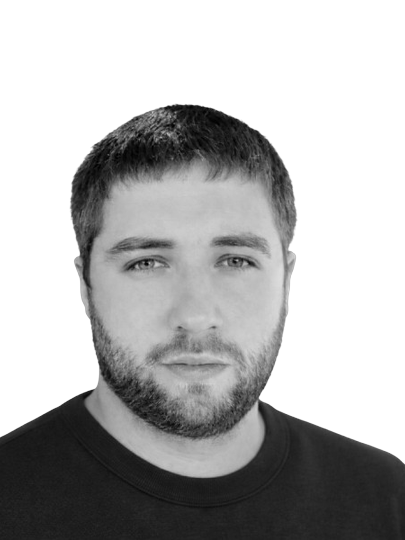
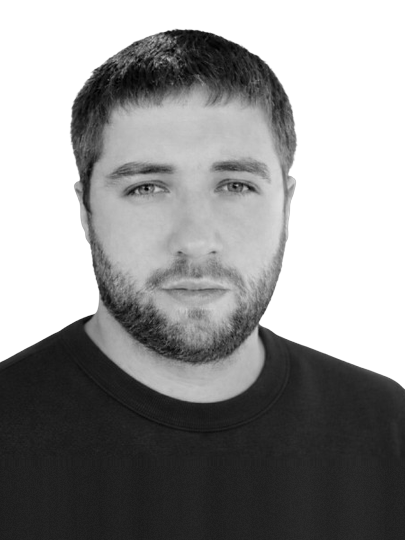
Drop the hero stat cards, align section buttons with the title, Shevelev as Lead Developer
- Hero ends with the CTAs; the case figures live in the results section with their context
- Clients section carries the track record as one line: 100+ projects since 2009, 20+ countries
- Section header button always sits level with the title; the lead runs below it
- Dmitriy Shevelev: Lead Developer (team page and blog author line, all locales)
- Bohdan Voitovych photo reframed: head at the same height as the rest of the team

diff --git a/src/app/(frontend)/trident.css b/src/app/(frontend)/trident.css
@@ -113,6 +113,10 @@ p { overflow-wrap: break-word; }
 .section-head { display: flex; justify-content: space-between; align-items: flex-end; gap: 32px; flex-wrap: wrap; margin-bottom: var(--head-gap); }
 .section-head > div { display: flex; flex-direction: column; gap: 16px; max-width: 760px; min-width: 0; }
 .section-head .btn { flex: none; }
+.section-head--stack { flex-direction: column; align-items: stretch; flex-wrap: nowrap; gap: 16px; }
+.section-head--stack > .section-head-row { display: flex; justify-content: space-between; align-items: flex-end; gap: 32px; flex-wrap: wrap; max-width: none; flex-direction: row; }
+.section-head-row > div { display: flex; flex-direction: column; gap: 16px; max-width: 760px; min-width: 0; }
+.section-head--stack > .lead { max-width: 760px; }
 
 /* ---- Buttons ------------------------------------------------------------- */
 .btn { position: relative; display: inline-flex; align-items: center; justify-content: center; overflow: hidden; border: 0; cursor: pointer; font: 600 15px/1.2 var(--font-sans); padding: 14px 20px; min-height: 44px; box-sizing: border-box; border-radius: var(--radius); white-space: nowrap; text-align: center; }
@@ -351,8 +355,6 @@ body.menu-open { overflow: hidden; }
 .log-row.is-new::before { content: ""; position: absolute; inset: 0; background: rgba(39,114,224,.25); animation: logFlash .9s var(--ease) both; pointer-events: none; }
 @keyframes logIn { from { opacity: 0; transform: translateY(-10px); } to { opacity: 1; transform: none; } }
 @keyframes logFlash { from { opacity: 1; } to { opacity: 0; } }
-.hero-stats { position: relative; padding-bottom: clamp(48px,5vw,80px); }
-.hero-stats-h { margin: 0 0 14px; font: 500 var(--fs-label)/1.2 var(--font-mono); color: var(--ink-3); }
 
 /* ---- Stat cards + mini visuals ------------------------------------------ */
 .stat-card { padding: 20px; display: flex; flex-direction: column; gap: 12px; background: rgba(255,255,255,.9); }
@@ -362,8 +364,6 @@ body.menu-open { overflow: hidden; }
 .stat-d { font-size: 13px; line-height: 1.4; color: var(--ink-2); }
 .stat-card--lg .stat-d { font-size: 14px; line-height: 1.45; color: var(--ink); }
 .stat-src { font: 400 11px/1.4 var(--font-mono); color: var(--ink-3); }
-.stat-card--link { color: inherit; text-decoration: none; }
-.stat-card--link .stat-d::after { content: " →"; color: var(--blue); }
 .mini-bars { display: flex; flex-direction: column; gap: 4px; }
 .track { height: 6px; background: var(--alt); border-radius: 2px; overflow: hidden; }
 .track--10 { height: 10px; border-radius: 0; }
@@ -818,6 +818,8 @@ a.uc-card:hover::after, a.uc-card:focus-visible::after { transform: scaleX(1); }
   .stack-band p { font-size: 17px; min-width: 0; }
   .btn { white-space: normal; }
   .section-head { gap: 20px; }
+  .section-head--stack { gap: 16px; }
+  .section-head-row { gap: 20px; }
   .contact-list li { grid-template-columns: minmax(0,1fr); gap: 4px; }
   .fbottom { flex-direction: column; align-items: flex-start; }
   .stat-card { padding: 16px; }

diff --git a/src/data/blog/batch-03.ts b/src/data/blog/batch-03.ts
@@ -50,7 +50,7 @@ Players can control lighting, AC, music, game video recording, live streaming, a
 
 Proven experience in IoT, end-to-end development, and scalable architecture made Trident Software the right choice for this project. The platform is built to grow from a pilot in one city to a regional sports infrastructure network.`,
     author: "Dmitriy Shevelev",
-    authorRole: "Team Lead, Trident Software",
+    authorRole: "Lead Developer, Trident Software",
     publishedAt: "2024-10-31",
     readingTime: 6,
     tags: [
@@ -111,7 +111,7 @@ Les joueurs commandent l'éclairage, la climatisation, la musique, l'enregistrem
 ## Pourquoi l'IoT dans le sport ?
 
 Une expérience éprouvée de l'IoT, un développement de bout en bout et une architecture évolutive ont fait de Trident Software le bon choix pour ce projet. La plateforme est conçue pour passer d'un pilote dans une seule ville à un réseau régional d'infrastructures sportives.`,
-        authorRole: "Chef d'équipe, Trident Software",
+        authorRole: "Développeur principal, Trident Software",
         meta: {
           title: "ArenaWave : Logiciel de gestion sportive IoT — Trident Software",
           description: "Comment ArenaWave transforme les terrains de sport en espaces intelligents avec IoT et gestion automatisée.",
@@ -163,7 +163,7 @@ Spieler steuern Beleuchtung, Klimaanlage, Musik, Videoaufzeichnung des Spiels, L
 ## Warum IoT im Sport?
 
 Nachgewiesene Erfahrung mit IoT, Entwicklung aus einer Hand und eine skalierbare Architektur haben Trident Software zur richtigen Wahl für dieses Projekt gemacht. Die Plattform ist darauf ausgelegt, von einem Pilotprojekt in einer Stadt zu einem regionalen Netz von Sportinfrastruktur zu wachsen.`,
-        authorRole: "Teamleiter, Trident Software",
+        authorRole: "Leitender Entwickler, Trident Software",
         meta: {
           title: "ArenaWave: Sportmanagement-Software — Trident Software",
           description: "Wie ArenaWave Sportanlagen mit IoT und automatisiertem Betrieb in digitale Spaces verwandelt.",
@@ -215,7 +215,7 @@ I giocatori gestiscono luci, aria condizionata, musica, registrazione video dell
 ## Perché l'IoT nello sport?
 
 Esperienza comprovata nell'IoT, sviluppo end-to-end e un'architettura scalabile hanno reso Trident Software la scelta giusta per questo progetto. La piattaforma è pensata per crescere da un progetto pilota in una sola città a una rete regionale di infrastrutture sportive.`,
-        authorRole: "Team Leader, Trident Software",
+        authorRole: "Sviluppatore principale, Trident Software",
         meta: {
           title: "ArenaWave: Software di Gestione Sportiva IoT — Trident Software",
           description: "Come ArenaWave trasforma i campi sportivi in spazi intelligenti con IoT e gestione automatizzata.",

diff --git a/src/data/blog/batch-04.ts b/src/data/blog/batch-04.ts
@@ -308,7 +308,7 @@ From basic access to full data visibility — tailored per company, dealer, or c
 
 This panel is available as a standalone product or as an integration layer for existing B2B platforms.`,
     author: "Dmitriy Shevelev",
-    authorRole: "Team Lead, Trident Software",
+    authorRole: "Lead Developer, Trident Software",
     publishedAt: "2024-05-13",
     readingTime: 5,
     tags: [
@@ -373,7 +373,7 @@ De l'accès de base à la visibilité complète des données, adaptés à chaque
 | Contrôle d'accès difficile | Droits granulaires selon le rôle et le niveau |
 
 Ce panneau est disponible comme produit autonome ou comme couche d'intégration pour des plateformes B2B existantes.`,
-        authorRole: "Chef d'équipe, Trident Software",
+        authorRole: "Développeur principal, Trident Software",
         meta: {
           title: "Nouveau panneau d'administration B2B — Trident Software",
           description: "Notre nouveau panneau B2B offre contrôle hiérarchique et surveillance en temps réel pour les réseaux de distribution.",
@@ -430,7 +430,7 @@ Vom Basiszugang bis zur vollen Datensicht, zugeschnitten auf jedes Firmen-, Hän
 | Schwierige Zugriffskontrolle | Fein abgestufte Berechtigungen nach Rolle und Stufe |
 
 Das Panel gibt es als eigenständiges Produkt oder als Integrationsschicht für bestehende B2B-Plattformen.`,
-        authorRole: "Teamleiter, Trident Software",
+        authorRole: "Leitender Entwickler, Trident Software",
         meta: {
           title: "Unser neues B2B-Admin-Panel — Trident Software",
           description: "Das neue B2B-Verwaltungspanel bietet hierarchische Kontrolle und Echtzeit-Überwachung für komplexe Kundennetzwerke.",
@@ -487,7 +487,7 @@ Dall'accesso base alla visibilità completa dei dati, su misura per ogni account
 | Controllo degli accessi difficile | Permessi granulari in base a ruolo e livello |
 
 Il pannello è disponibile come prodotto a sé stante o come livello di integrazione per piattaforme B2B esistenti.`,
-        authorRole: "Team Leader, Trident Software",
+        authorRole: "Sviluppatore principale, Trident Software",
         meta: {
           title: "Nuovo pannello di amministrazione B2B — Trident Software",
           description: "Il nostro nuovo pannello B2B offre controllo gerarchico e monitoraggio in tempo reale per reti di distribuzione complesse.",

diff --git a/src/components/molecules/StatCard.tsx b/src/components/molecules/StatCard.tsx
@@ -1,5 +1,4 @@
 import type { CSSProperties, ReactNode } from 'react'
-import { Link } from '@/i18n/navigation'
 import { cn } from '@/lib/utils'
 
 type Visual =
@@ -19,8 +18,6 @@ type Props = {
   /** Source line placement: top (hero) or bottom (problem section). */
   sourceAt?: 'top' | 'bottom'
   className?: string
-  /** Makes the whole card a link, e.g. to the case the figure comes from. */
-  href?: string
 }
 
 const v = (n: number) => ({ '--v': n } as CSSProperties)
@@ -102,12 +99,11 @@ export function MiniVisual({ visual }: { visual: Visual }) {
 }
 
 /** Mono source line, big blue number, mini-visual, description. Never a plain black number. */
-export function StatCard({ source, value, description, visual, size = 'md', sourceAt = 'top', className, href }: Props) {
+export function StatCard({ source, value, description, visual, size = 'md', sourceAt = 'top', className }: Props) {
   const src = source ? <span className="stat-src">{source}</span> : null
   const ring = visual?.kind === 'ring'
-  const cls = cn('card stat-card', size === 'lg' && 'stat-card--lg', href && 'stat-card--link', className)
-  const body = (
-    <>
+  return (
+    <div className={cn('card stat-card', size === 'lg' && 'stat-card--lg', className)}>
       {sourceAt === 'top' && src}
       {ring ? (
         <div className="ring-wrap">
@@ -121,13 +117,6 @@ export function StatCard({ source, value, description, visual, size = 'md', sour
       {visual && !ring && <MiniVisual visual={visual} />}
       {size !== 'lg' && <span className="stat-d">{description}</span>}
       {sourceAt === 'bottom' && <span className="stat-src" style={{ marginTop: ring ? 'auto' : undefined }}>{source}</span>}
-    </>
-  )
-  return href ? (
-    <Link href={href} className={cls}>
-      {body}
-    </Link>
-  ) : (
-    <div className={cls}>{body}</div>
+    </div>
   )
 }

diff --git a/src/components/molecules/SectionHeader.tsx b/src/components/molecules/SectionHeader.tsx
@@ -6,7 +6,7 @@ type Props = {
   label: ReactNode
   title: ReactNode
   lead?: ReactNode
-  /** At most one action, rendered as an ink button, bottom-aligned on the right. */
+  /** At most one action: an ink button on the right, always level with the title (the lead goes below). */
   action?: { href: string; label: string }
   id?: string
   className?: string
@@ -18,19 +18,21 @@ type Props = {
 export function SectionHeader({ label, title, lead, action, id, className, as = 'h2', flag }: Props) {
   const H = as
   return (
-    <div className={cn('section-head reveal', className)}>
-      <div>
-        <Label flag={flag}>{label}</Label>
-        <H id={id} className={as === 'h1' ? 'h1' : 'h2'}>
-          {title}
-        </H>
-        {lead && <p className="lead">{lead}</p>}
+    <div className={cn('section-head section-head--stack reveal', className)}>
+      <div className="section-head-row">
+        <div>
+          <Label flag={flag}>{label}</Label>
+          <H id={id} className={as === 'h1' ? 'h1' : 'h2'}>
+            {title}
+          </H>
+        </div>
+        {action && (
+          <ButtonLink href={action.href} variant="ink" arrow>
+            {action.label}
+          </ButtonLink>
+        )}
       </div>
-      {action && (
-        <ButtonLink href={action.href} variant="ink" arrow>
-          {action.label}
-        </ButtonLink>
-      )}
+      {lead && <p className="lead">{lead}</p>}
     </div>
   )
 }

diff --git a/src/components/organisms/home/Hero.tsx b/src/components/organisms/home/Hero.tsx
@@ -1,6 +1,5 @@
 import { Link } from '@/i18n/navigation'
 import { useTranslations } from 'next-intl'
-import { StatCard } from '@/components/molecules/StatCard'
 import { HeroLog, HeroTagline } from './HeroLive'
 
 /** Words of the H1; the part inside <b>…</b> in the message is highlighted blue. */
@@ -75,32 +74,6 @@ export function Hero() {
         </div>
       </div>
 
-      <div className="container hero-stats">
-        <h2 className="hero-stats-h">{th('statsTitle')}</h2>
-        <div className="grid-3 gap-tight stagger">
-          <StatCard
-            href="/cases/clinic-voice-documentation"
-            source={t('hero.statSrc.practice')}
-            value="+30.8 %"
-            description={th('stats.practice')}
-            visual={{ kind: 'bar', before: 0.76, after: 1 }}
-          />
-          <StatCard
-            href="/cases/warranty-control-component-maker"
-            source={t('hero.statSrc.maker')}
-            value="−63 %"
-            description={th('stats.maker')}
-            visual={{ kind: 'beforeAfter', after: 0.37 }}
-          />
-          <StatCard
-            href="/cases"
-            source={t('hero.statSrc.track')}
-            value="100+"
-            description={th('stats.projects')}
-            visual={{ kind: 'tags', tags: th.raw('stats.projectsTags') as string[] }}
-          />
-        </div>
-      </div>
     </section>
   )
 }

diff --git a/src/data/team.ts b/src/data/team.ts
@@ -84,19 +84,19 @@ const records: TeamRecord[] = [
     facebook: 'https://www.facebook.com/profile.php?id=100017180442716',
     content: {
       en: {
-        role: 'Team Lead',
+        role: 'Lead Developer',
         location: 'Ukraine',
       },
       de: {
-        role: 'Teamleiter',
+        role: 'Leitender Entwickler',
         location: 'Ukraine',
       },
       fr: {
-        role: "Chef d'équipe",
+        role: 'Développeur principal',
         location: 'Ukraine',
       },
       it: {
-        role: 'Team Leader',
+        role: 'Sviluppatore principale',
         location: 'Ucraina',
       },
     },

diff --git a/src/components/organisms/home/Logos.tsx b/src/components/organisms/home/Logos.tsx
@@ -19,7 +19,7 @@ export function Logos() {
   return (
     <section className="section section--line" aria-labelledby="clients-h">
       <div className="container">
-        <SectionHeader id="clients-h" label={t('label')} title={t('title')} />
+        <SectionHeader id="clients-h" label={t('label')} title={t('title')} lead={t('lead')} />
         <div className="refs reveal">
           <h3 className="refs-k" style={{ margin: 0 }}>
             {t('namedReferences')}
